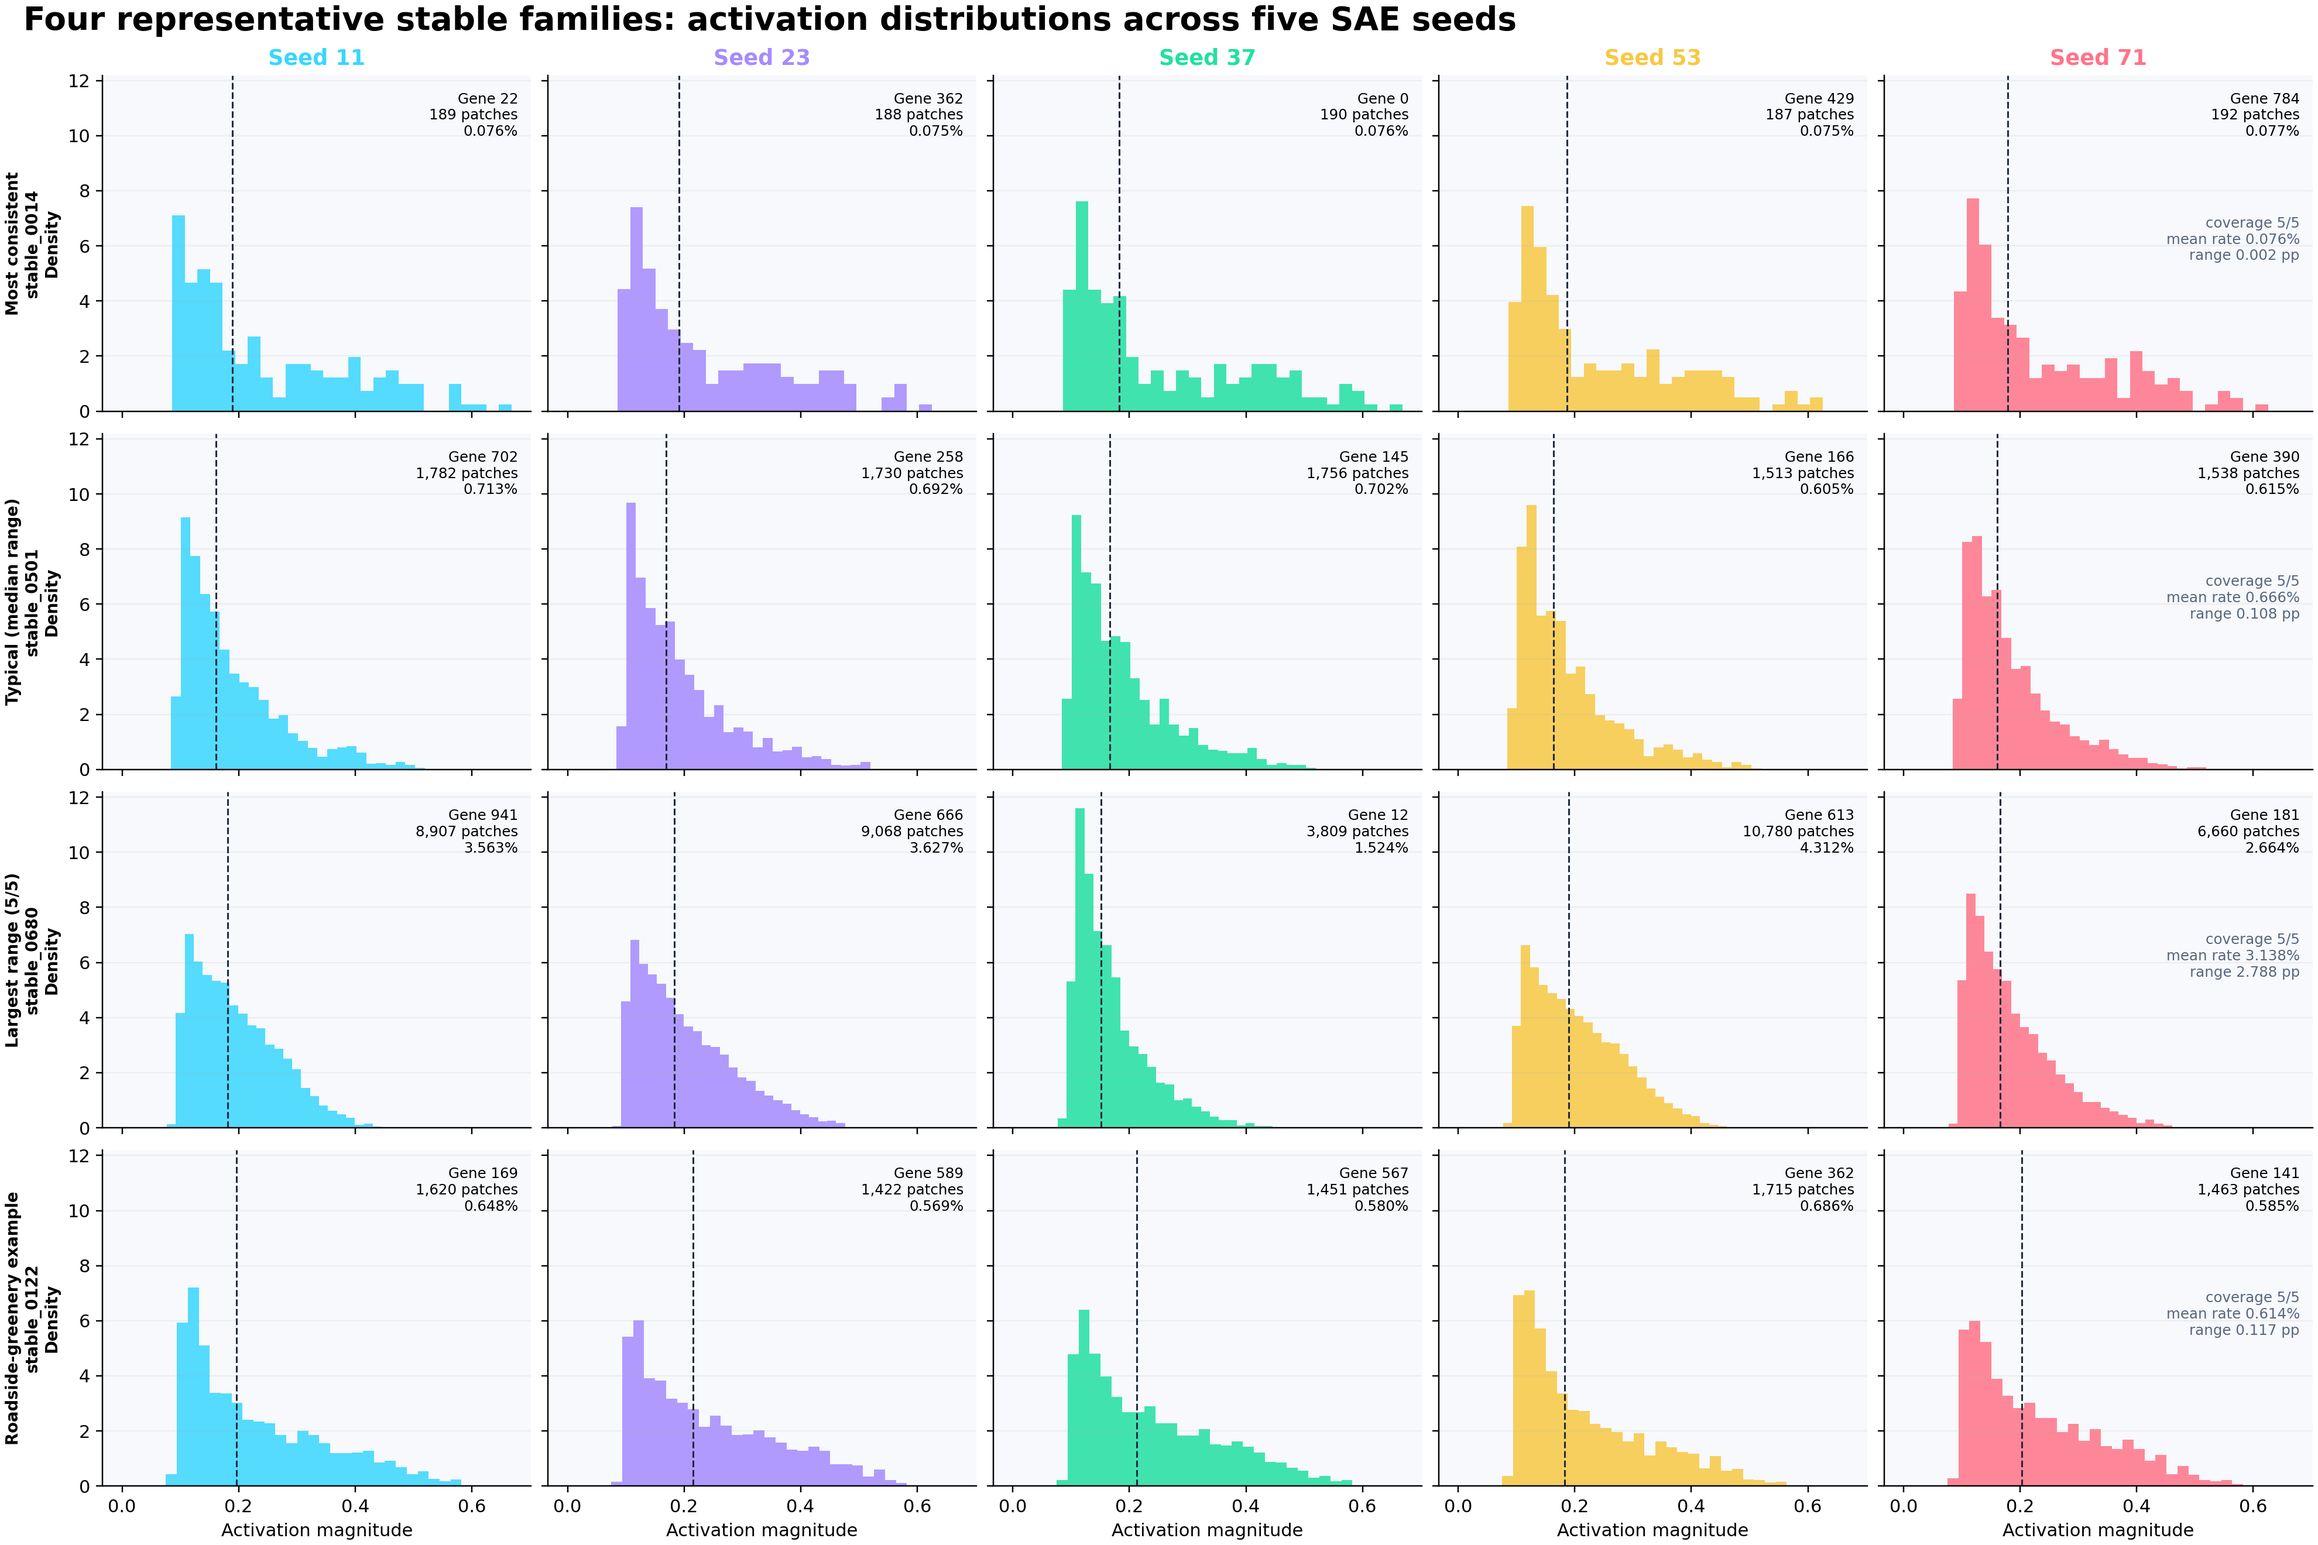
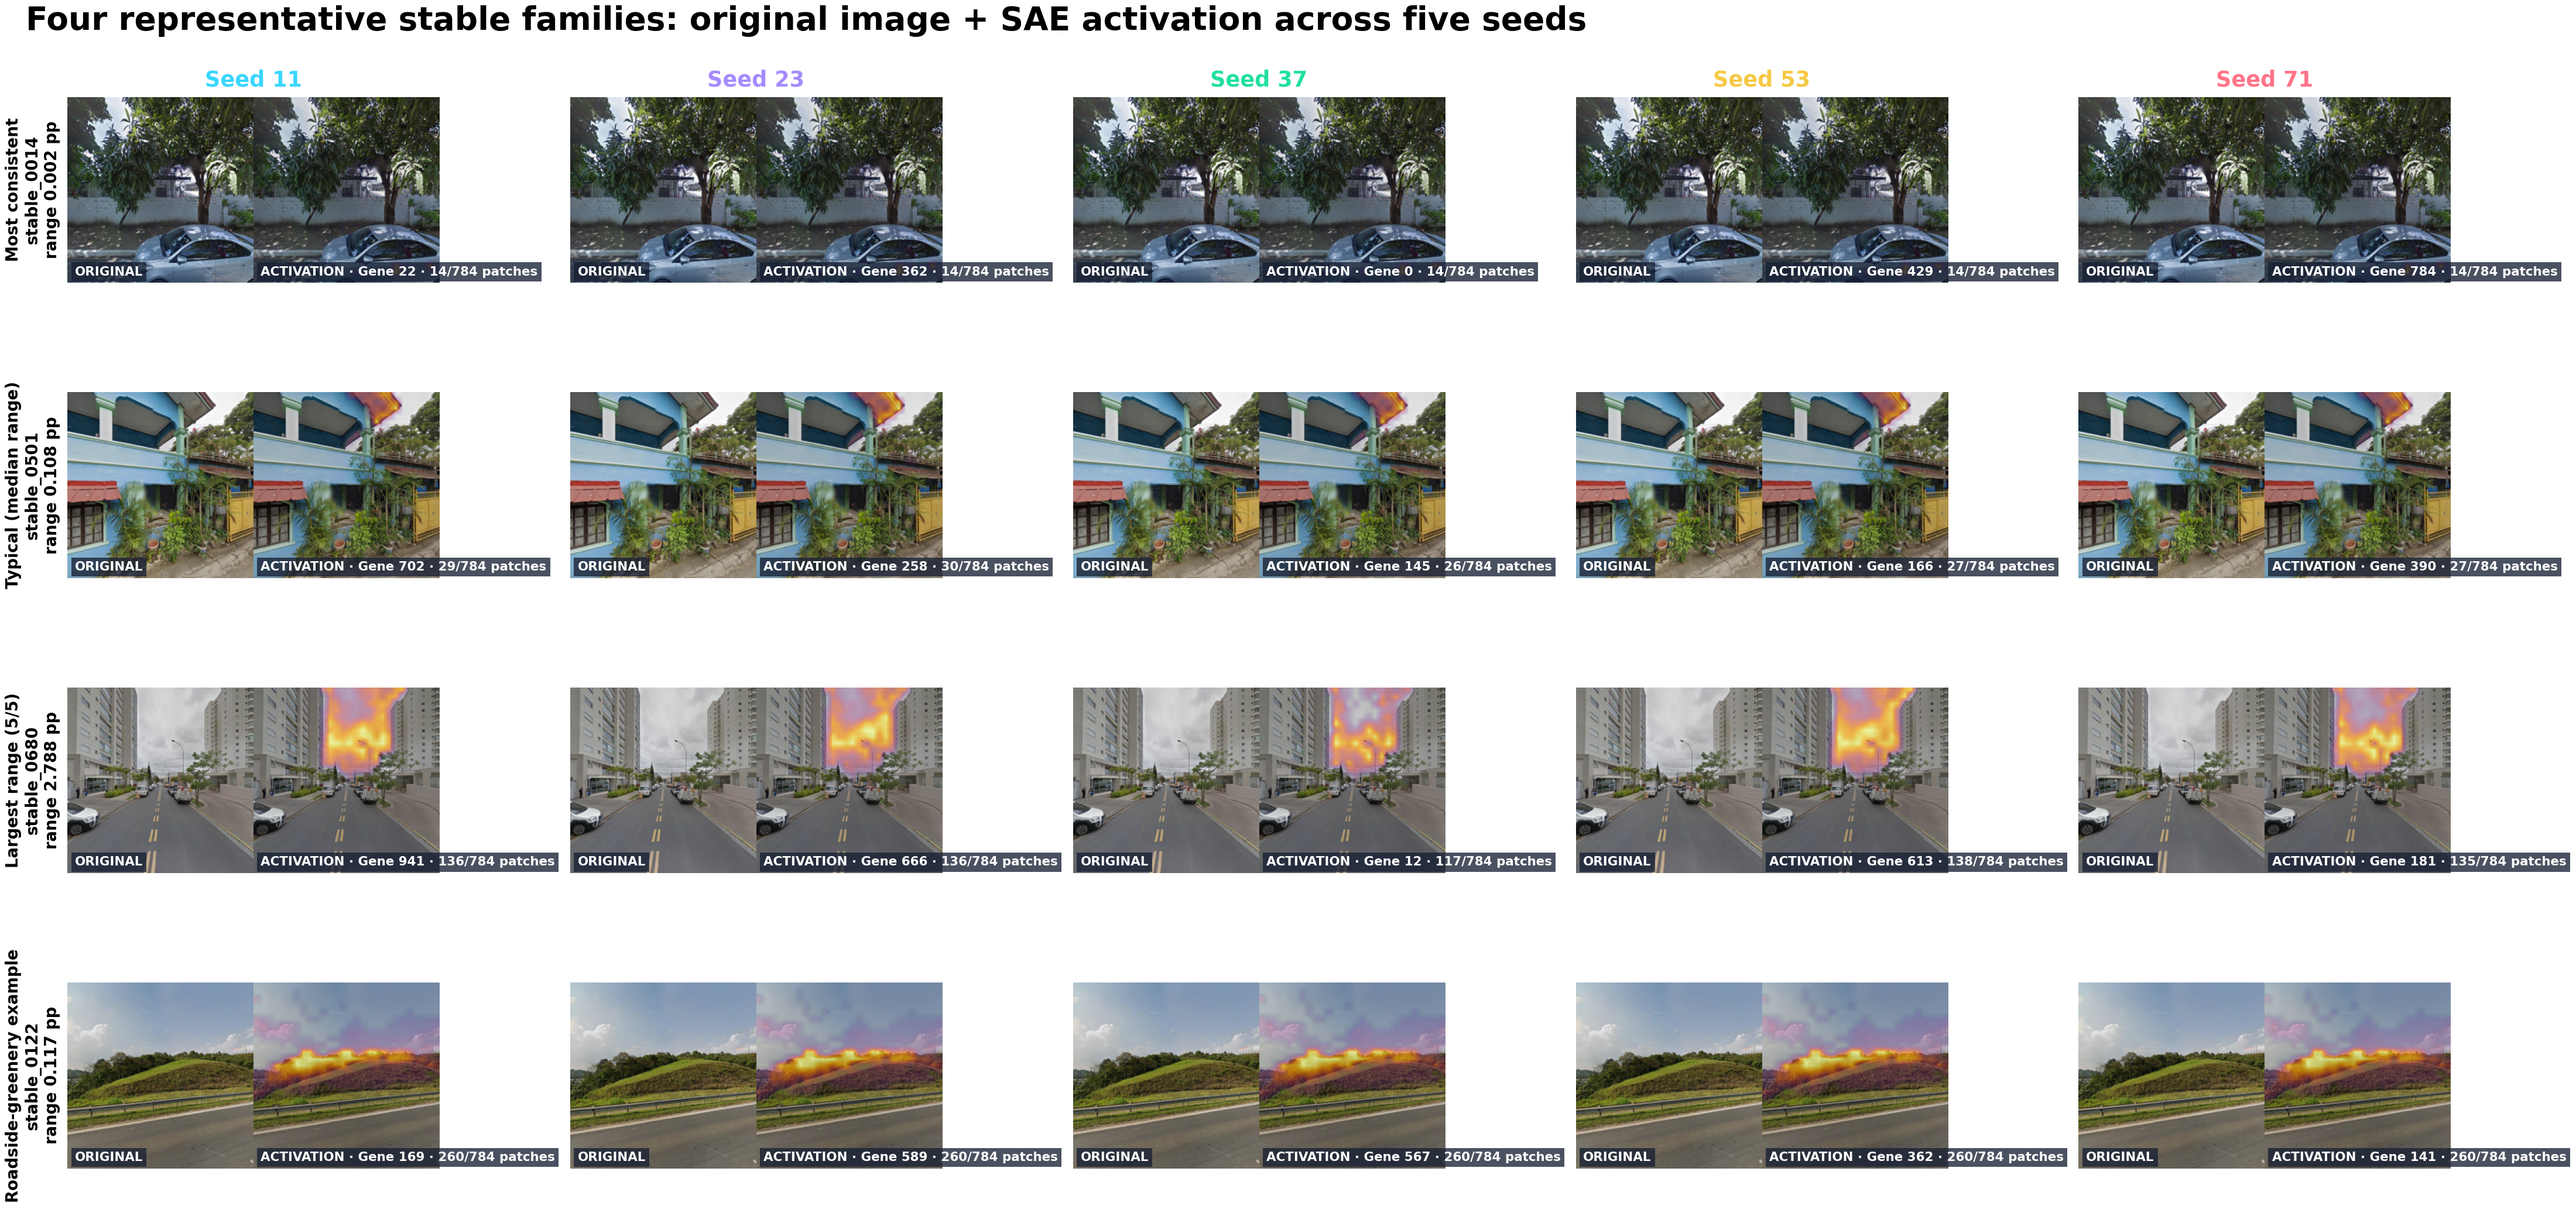
Add activation-overlay montage and city clustering

diff --git a/formal/stability/plot_activation_range.py b/formal/stability/plot_activation_range.py
@@ -5,7 +5,13 @@ import csv
 from pathlib import Path
 
 import matplotlib.pyplot as plt
+import matplotlib.cm as cm
 import numpy as np
+import torch
+from PIL import Image
+
+from formal.gpu_run import imgpath
+from sae_experiments.models.base_sae import build_sae
 
 
 ROOT = Path(__file__).resolve().parents[2]
@@ -32,6 +38,83 @@ def load_seed(seed: int) -> dict[str, np.ndarray]:
 
 def activation_values(payload: dict[str, np.ndarray], gene: int) -> np.ndarray:
     return payload["vals"][payload["cols"] == gene].astype(np.float32)
+
+
+def decoder_atoms(checkpoint: Path) -> np.ndarray:
+    payload = torch.load(checkpoint, map_location="cpu")
+    weight = payload["state"]["decoder.weight"].detach().float().numpy().T
+    return weight / (np.linalg.norm(weight, axis=1, keepdims=True) + 1e-9)
+
+
+def load_sae(checkpoint: Path) -> torch.nn.Module:
+    payload = torch.load(checkpoint, map_location="cpu")
+    config = {
+        "type": payload["model_type"],
+        "latent_dim": int(payload["K"]),
+        "k": int(payload.get("k", payload.get("topk"))),
+        "decoder_unit_norm": True,
+    }
+    model = build_sae(int(payload["D"]), config)
+    model.load_state_dict(payload["state"])
+    return model.eval()
+
+
+def activation_map(model: torch.nn.Module, features: torch.Tensor, gene: int) -> np.ndarray:
+    with torch.inference_mode():
+        acts, _ = model(features)
+    return acts[:, gene].float().numpy().reshape(28, 28)
+
+
+def activation_overlay(image: Image.Image, values: np.ndarray, size: int = 224) -> Image.Image:
+    scaled = values.astype(np.float32)
+    positive = scaled[scaled > 0]
+    ceiling = float(np.quantile(positive, 0.98)) if len(positive) else 1.0
+    scaled = np.clip(scaled / max(ceiling, 1e-8), 0, 1)
+    up = np.asarray(
+        Image.fromarray((scaled * 255).astype(np.uint8)).resize((size, size), Image.BILINEAR),
+        dtype=np.float32,
+    ) / 255
+    heat = (cm.inferno(up)[..., :3] * 255).astype(np.float32)
+    rgb = np.asarray(image.resize((size, size)), dtype=np.float32)
+    alpha = (0.08 + 0.74 * up)[..., None]
+    return Image.fromarray((rgb * (1 - alpha) + heat * alpha).astype(np.uint8))
+
+
+def representative_examples(
+    chosen: dict[str, dict], families: dict[str, dict[int, int]]
+) -> tuple[dict[str, Image.Image], torch.Tensor]:
+    """Pick one common exemplar per family and reconstruct its patch features."""
+    checkpoint = ROOT / "formal" / "batchtopk_w1024_k8" / "batch_topk_w1024_k8.pt"
+    baseline = decoder_atoms(checkpoint)
+    seed11 = decoder_atoms(RUN_ROOT / "seed_011" / "batch_topk_w1024_k8.pt")
+    with np.load(ROOT / "formal" / "batchtopk_w1024_k8" / "sparse_acts.npz") as z:
+        idx, val = z["idx"], z["val"]
+        city, pano, heading = z["city"], z["pano"], z["heading"]
+        output: dict[str, Image.Image] = {}
+        selected_rows: list[int] = []
+        for _, record in chosen.items():
+            family = record["family"]
+            seed_gene = families[family][11]
+            baseline_gene = int(np.argmax(baseline @ seed11[seed_gene]))
+            scores = np.where(idx == baseline_gene, val, 0).max(axis=(1, 2))
+            for row in np.argsort(scores)[::-1]:
+                source = imgpath(str(city[row]), str(pano[row]), int(heading[row]))
+                if source.exists():
+                    output[family] = Image.open(source).convert("RGB")
+                    selected_rows.append(int(row))
+                    break
+            if family not in output:
+                raise FileNotFoundError(f"no source exemplar found for {family}")
+        latent = np.zeros((len(selected_rows), idx.shape[1], 1024), dtype=np.float32)
+        for output_row, source_row in enumerate(selected_rows):
+            np.put_along_axis(latent[output_row], idx[source_row].astype(np.int64), val[source_row].astype(np.float32), axis=1)
+    payload = torch.load(checkpoint, map_location="cpu")
+    state = payload["state"]
+    decoder = state["decoder.weight"].detach().float()
+    bias = state["pre_bias"].detach().float()
+    with torch.inference_mode():
+        reconstructed = torch.from_numpy(latent) @ decoder.T + bias
+    return output, reconstructed
 
 
 def main() -> None:
@@ -112,45 +195,39 @@ def main() -> None:
     fig.savefig(FIGURES / "sae_seed_activation_range_bars.png", dpi=220, facecolor="white")
     plt.close(fig)
 
-    fig, axes = plt.subplots(4, 5, figsize=(18, 12), sharex=True, sharey=True, constrained_layout=True)
+    originals, feature_batch = representative_examples(chosen, families)
+    models = {
+        seed: load_sae(RUN_ROOT / f"seed_{seed:03d}" / "batch_topk_w1024_k8.pt")
+        for seed in SEEDS
+    }
+
+    fig, axes = plt.subplots(4, 5, figsize=(20, 9.5), constrained_layout=True)
     for row_idx, (role, record) in enumerate(chosen.items()):
         family = record["family"]
         members = families[family]
-        all_values = [activation_values(seed_data[s], members[s]) for s in SEEDS if s in members]
-        upper = max(float(np.quantile(v, 0.995)) for v in all_values if len(v))
-        bins = np.linspace(0, upper, 32)
         for col_idx, seed in enumerate(SEEDS):
             ax = axes[row_idx, col_idx]
             gene = members.get(seed)
-            ax.set_facecolor("#f7f9fc")
             if gene is None:
                 ax.text(0.5, 0.52, "No strict match", ha="center", va="center", transform=ax.transAxes, color="#c44e52", weight="bold")
-                support = 0
             else:
-                vals = activation_values(seed_data[seed], gene)
-                support = len(vals)
-                ax.hist(vals, bins=bins, density=True, color=COLORS[seed], alpha=0.86, edgecolor="none")
-                ax.axvline(float(np.median(vals)), color="#202b3c", lw=1, ls="--")
-                ax.text(0.97, 0.95, f"Gene {gene}\n{support:,} patches\n{100*support/N_ANCHORS:.3f}%", ha="right", va="top", transform=ax.transAxes, fontsize=8)
+                gene_map = activation_map(models[seed], feature_batch[row_idx], gene)
+                original = originals[family].resize((224, 224))
+                overlay = activation_overlay(original, gene_map)
+                pair = np.concatenate([np.asarray(original), np.asarray(overlay)], axis=1)
+                ax.imshow(pair)
+                active = int(np.count_nonzero(gene_map))
+                ax.text(0.02, 0.04, "ORIGINAL", transform=ax.transAxes, color="white", fontsize=7, weight="bold", bbox={"facecolor": "#172033", "alpha": 0.78, "pad": 2, "edgecolor": "none"})
+                ax.text(0.52, 0.04, f"ACTIVATION · Gene {gene} · {active}/784 patches", transform=ax.transAxes, color="white", fontsize=7, weight="bold", bbox={"facecolor": "#172033", "alpha": 0.78, "pad": 2, "edgecolor": "none"})
             if row_idx == 0:
                 ax.set_title(f"Seed {seed}", color=COLORS[seed], weight="bold")
             if col_idx == 0:
-                ax.set_ylabel(f"{role}\n{family}\nDensity", fontsize=9, weight="bold")
-            if row_idx == 3:
-                ax.set_xlabel("Activation magnitude")
-            ax.spines[["top", "right"]].set_visible(False)
-            ax.grid(axis="y", alpha=0.15)
-        axes[row_idx, 4].text(
-            0.97,
-            0.58,
-            f"coverage {record['coverage']}/5\nmean rate {record['mean_pct']:.3f}%\nrange {record['range_pp']:.3f} pp",
-            ha="right",
-            va="top",
-            transform=axes[row_idx, 4].transAxes,
-            fontsize=8,
-            color="#58677c",
-        )
-    fig.suptitle("Four representative stable families: activation distributions across five SAE seeds", x=0.01, ha="left", fontsize=18, weight="bold")
+                ax.set_ylabel(f"{role}\n{family}\nrange {record['range_pp']:.3f} pp", fontsize=9, weight="bold")
+            ax.set_xticks([])
+            ax.set_yticks([])
+            for spine in ax.spines.values():
+                spine.set_visible(False)
+    fig.suptitle("Four representative stable families: original image + SAE activation across five seeds", x=0.01, ha="left", fontsize=18, weight="bold")
     fig.savefig(FIGURES / "sae_seed_representative_gene_montage.png", dpi=220, facecolor="white")
     plt.close(fig)
 

diff --git a/formal/web/plot_city_similarity_clustering.py b/formal/web/plot_city_similarity_clustering.py
@@ -1,0 +1,109 @@
+"""Plot 12-city visual-gene similarity as a dendrogram and clustered matrix."""
+from __future__ import annotations
+
+from pathlib import Path
+
+import matplotlib
+
+matplotlib.use("Agg")
+import matplotlib.pyplot as plt
+import numpy as np
+from scipy.cluster.hierarchy import dendrogram, linkage
+from scipy.spatial.distance import squareform
+
+
+ROOT = Path(__file__).resolve().parents[2]
+ACTIVATIONS = ROOT / "formal" / "formal_out_global3" / "genes" / "sparse_acts.npz"
+OUTPUT = ROOT / "formal" / "figures" / "city_similarity_hierarchical_clustering.png"
+CITIES = [
+    "Hong Kong", "Singapore", "Amsterdam", "Cape Town", "Paris", "São Paulo",
+    "Mexico City", "Sydney", "Jakarta", "Dhaka", "New Delhi", "Manila",
+]
+DATA_NAMES = [name.replace(" ", "") for name in CITIES]
+DATA_NAMES[CITIES.index("São Paulo")] = "SaoPaulo"
+
+
+def city_profiles() -> np.ndarray:
+    with np.load(ACTIVATIONS) as payload:
+        idx = payload["idx"]
+        city = payload["city"].astype(str)
+        top_gene = idx[:, :, 0].astype(np.int64)
+        profiles = np.zeros((len(CITIES), 512), dtype=np.float64)
+        for row, name in enumerate(DATA_NAMES):
+            counts = np.bincount(top_gene[city == name].ravel(), minlength=512)
+            profiles[row] = counts / counts.sum()
+    return profiles
+
+
+def js_distance(a: np.ndarray, b: np.ndarray) -> float:
+    a = a + 1e-12
+    b = b + 1e-12
+    midpoint = 0.5 * (a + b)
+    divergence = 0.5 * np.sum(a * np.log2(a / midpoint)) + 0.5 * np.sum(b * np.log2(b / midpoint))
+    return float(np.sqrt(max(divergence, 0)))
+
+
+def main() -> None:
+    profiles = city_profiles()
+    distances = np.zeros((len(CITIES), len(CITIES)), dtype=np.float64)
+    for i in range(len(CITIES)):
+        for j in range(i + 1, len(CITIES)):
+            distances[i, j] = distances[j, i] = js_distance(profiles[i], profiles[j])
+    tree = linkage(squareform(distances, checks=False), method="average")
+    leaf_order = dendrogram(tree, no_plot=True)["leaves"]
+    similarity = 1 - distances / distances.max()
+    # A left-oriented scipy dendrogram draws its first leaf at the bottom.
+    # Reverse the matrix order so both panels read identically from top to bottom.
+    display_order = leaf_order[::-1]
+    ordered = similarity[np.ix_(display_order, display_order)]
+    ordered_names = [CITIES[i] for i in display_order]
+
+    fig = plt.figure(figsize=(17, 8.5), facecolor="white")
+    grid = fig.add_gridspec(1, 2, width_ratios=(1.05, 1), wspace=0.27, left=0.065, right=0.95, bottom=0.13, top=0.78)
+    tree_ax = fig.add_subplot(grid[0, 0])
+    matrix_ax = fig.add_subplot(grid[0, 1])
+
+    dendrogram(
+        tree,
+        labels=CITIES,
+        orientation="left",
+        ax=tree_ax,
+        color_threshold=0,
+        above_threshold_color="#3976d3",
+        link_color_func=lambda _: "#3976d3",
+    )
+    tree_ax.set_xlabel("Jensen–Shannon distance (lower = more similar)", color="#475569")
+    tree_ax.tick_params(axis="both", colors="#334155", labelsize=10)
+    tree_ax.spines[["top", "right", "left"]].set_visible(False)
+    tree_ax.spines["bottom"].set_color("#cbd5e1")
+    tree_ax.grid(axis="x", color="#e2e8f0", linewidth=0.8)
+    tree_ax.set_title("Hierarchical clustering", loc="left", fontsize=14, weight="bold", color="#172033", pad=12)
+
+    image = matrix_ax.imshow(ordered, cmap="YlGnBu", vmin=0, vmax=1, aspect="equal")
+    ticks = np.arange(len(CITIES))
+    matrix_ax.set_xticks(ticks, ordered_names, rotation=45, ha="right", fontsize=9)
+    matrix_ax.set_yticks(ticks, ordered_names, fontsize=9)
+    matrix_ax.tick_params(length=0, colors="#334155")
+    matrix_ax.set_title("Similarity matrix in cluster order", loc="left", fontsize=14, weight="bold", color="#172033", pad=12)
+    for i in range(len(CITIES)):
+        for j in range(len(CITIES)):
+            matrix_ax.text(j, i, f"{ordered[i, j]:.2f}", ha="center", va="center", fontsize=6.5,
+                           color="white" if ordered[i, j] > 0.62 else "#172033")
+    for spine in matrix_ax.spines.values():
+        spine.set_visible(False)
+    colorbar = fig.colorbar(image, ax=matrix_ax, fraction=0.045, pad=0.03)
+    colorbar.set_label("Normalized similarity (1 − distance / max distance)", color="#475569", fontsize=9)
+    colorbar.outline.set_edgecolor("#cbd5e1")
+
+    fig.suptitle("Visual-gene similarity across 12 cities", x=0.065, y=0.96, ha="left", fontsize=23, weight="bold", color="#172033")
+    fig.text(0.065, 0.895, "City profiles are the frequencies of 512 dominant SAE visual genes across a balanced Street View sample.", fontsize=11, color="#64748b")
+    fig.text(0.065, 0.835, "Distance: Jensen–Shannon · Linkage: average", fontsize=9.5, color="#64748b")
+    OUTPUT.parent.mkdir(parents=True, exist_ok=True)
+    fig.savefig(OUTPUT, dpi=220, facecolor="white")
+    plt.close(fig)
+    print(f"wrote {OUTPUT}")
+    print("leaf order:", " -> ".join(ordered_names))
+
+
+if __name__ == "__main__":
+    main()
